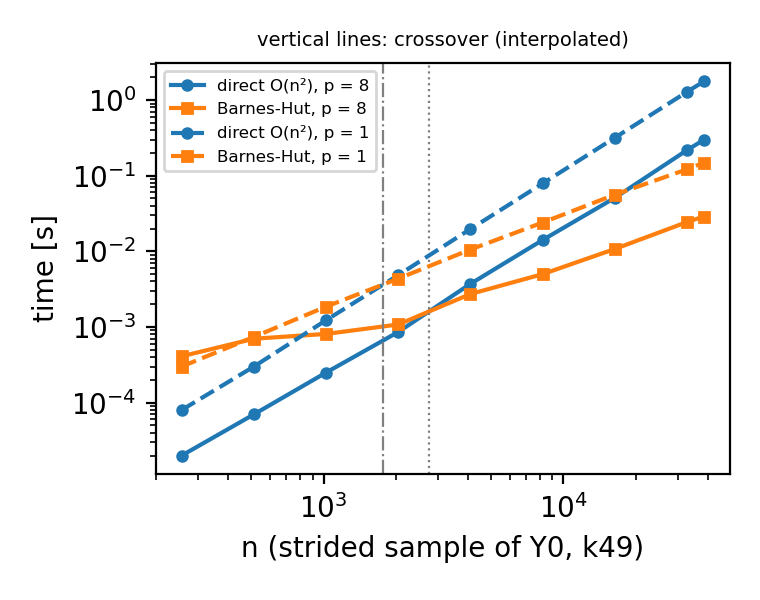
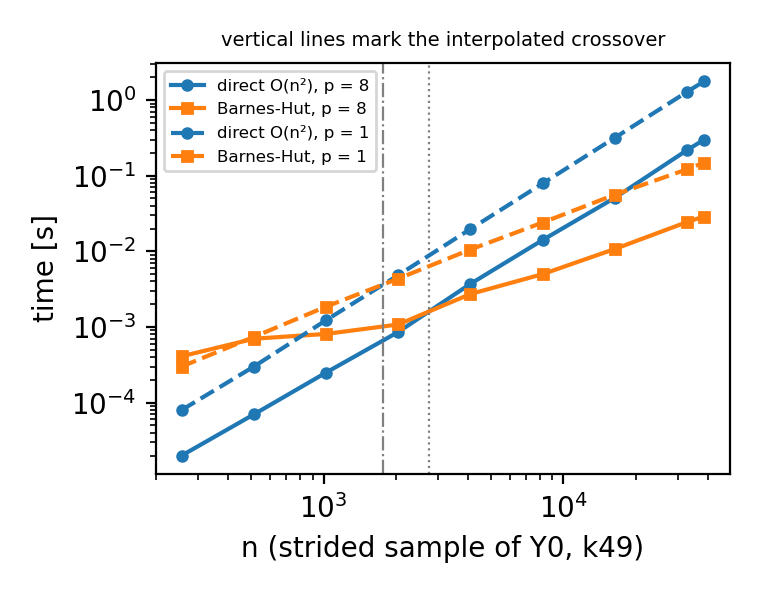
Prediction and phase-share tables, figure title

Changed region(s): [[0.2724, 0.06, 0.8776, 0.09]]

diff --git a/scripts/plots.py b/scripts/plots.py
@@ -105,6 +105,39 @@ for g in gs:
 pd.DataFrame(uc).round(3).to_csv(os.path.join(RES, "unit_costs.csv"), index=False)
 print("wrote", os.path.join(RES, "unit_costs.csv"))
 
+# ------------------------------------------------------------------ table: predict coPapersDBLP from k49 and com-Amazon
+# Each phase of the target graph is predicted from the sequential cost per unit (per nonzero or per point)
+# of each of the two smaller graphs; for the walk also with an n log2 n model. Nothing is fitted to the target.
+PM_SRC, PM_TGT = ["k49_norm_10NN", "com-Amazon"], "coPapersDBLP"
+if all(g in gs for g in PM_SRC + [PM_TGT]):
+    pm_seq = {g: d[(d.graph == g) & (d.backend == "seq")].iloc[0] for g in PM_SRC + [PM_TGT]}
+    pm_t = pm_seq[PM_TGT]
+    pm_models = [("attr", "per nnz", lambda r: r.nnz), ("walk", "per point", lambda r: r.n),
+              ("walk", "n log2 n", lambda r: r.n * np.log2(r.n)), ("sort", "per point", lambda r: r.n),
+              ("beta", "per nnz", lambda r: r.nnz), ("symm", "per nnz", lambda r: r.nnz)]
+    pm_rows = []
+    for pm_ph, pm_model, pm_unit in pm_models:
+        pm_rec = dict(phase=pm_ph, model=pm_model, measured_s=pm_t[pm_ph])
+        for g in PM_SRC:
+            pm_rec["pred_from_" + g] = pm_seq[g][pm_ph] / pm_unit(pm_seq[g]) * pm_unit(pm_t)
+        pm_rows.append(pm_rec)
+    pd.DataFrame(pm_rows).round(4).to_csv(os.path.join(RES, "prediction.csv"), index=False)
+    print("wrote", os.path.join(RES, "prediction.csv"))
+
+# ------------------------------------------------------------------ table: share of each phase, p = 1 and max p
+# share of the sum of the phase medians (P = beta + symm, tree = keys + sort + build)
+sh_d = d[d.backend == args.backend]
+sh_rows = []
+for g in gs:
+    for sh_p in (1, int(sh_d.threads.max())):
+        sh_r = sh_d[(sh_d.graph == g) & (sh_d.threads == sh_p)].iloc[0]
+        sh_parts = {"P": sh_r.beta + sh_r.symm, "attr": sh_r.attr, "tree": sh_r["keys"] + sh_r["sort"] + sh_r.build, "cm": sh_r.cm,
+                 "walk": sh_r.walk, "assemble": sh_r.assemble}
+        sh_sum = sum(sh_parts.values())
+        sh_rows.append(dict(graph=g, backend=args.backend, threads=sh_p, **{k: 100 * v / sh_sum for k, v in sh_parts.items()}))
+pd.DataFrame(sh_rows).round(1).to_csv(os.path.join(RES, "phase_shares.csv"), index=False)
+print("wrote", os.path.join(RES, "phase_shares.csv"))
+
 # ------------------------------------------------------------------ fig 1: total speedup, per graph, per backend
 fig, axes = plt.subplots(1, len(gs), figsize=(3.0 * len(gs) + 0.6, 2.9), sharey=True)
 for ax, g in zip(np.atleast_1d(axes), gs):
@@ -239,6 +272,6 @@ for k, (p, n_, bh, di, x) in enumerate(runs):
     print(f"p = {p}: at n = {int(n_[-1])}: direct {di[-1]:.4f} s, BH {bh[-1]:.4f} s, ratio {di[-1] / bh[-1]:.1f}x")
 ax.set_xlabel("n (strided sample of Y0, k49)")
 ax.set_ylabel("time [s]")
-ax.set_title("vertical lines: crossover (interpolated)", fontsize=7)
+ax.set_title("vertical lines mark the interpolated crossover", fontsize=7)
 ax.legend(fontsize=6)
 save(fig, "fig6_bh_vs_direct")
